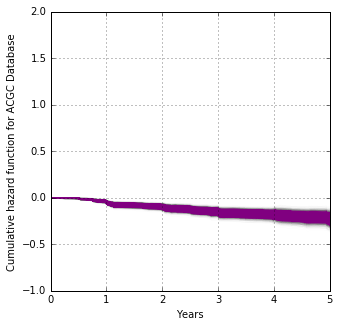
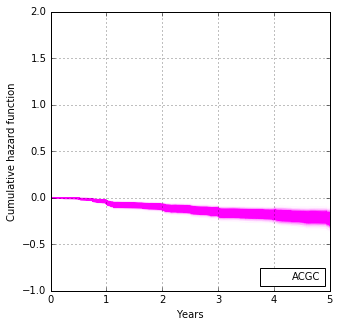
April 22-2016

diff --git a/README.md b/README.md
@@ -14,7 +14,8 @@ Background
 
 Data
 ----
-- Donor database from South Bay non-profit. 2338 donors spanning over 40 years.
+- Donor database from South Bay non-profit.
+- 2338 donors spanning over 40 years.
 - Each row contains >100 features.  Example of features: ZIP code, martial status, gender...
 
 
@@ -24,9 +25,9 @@ Approach
 --------
 - The Aalen Additive model, which is patient-survival model, was used to predict the lifetime. The model fits the data to a *hazard function* in turn is used to predict the lifetime.
 
-- The hazard function are composed of features (known as *hazards*) which can influence the lifetime of the patient, which is the donor in our use case.
+- The hazard function is composed of features (known as *hazards*) which can influence the lifetime of each donor in our use case.
 
-	λ(t) = b<sub>0</sub>(t) + b<sub>1</sub>(t)x<sub>1</sub> +. . . +b<sub>N</sub>(t)x<sub>T</sub>, where x<sub>n</sub> are the hazards and b<sub>n</sub> are the parameters.
+	λ(t) = b<sub>0</sub>(t) + b<sub>1</sub>(t)x<sub>1</sub> +. . . +b<sub>N</sub>(t)x<sub>T</sub>,  where b<sub>0</sub>(t) is the baseline hazard function and x<sub>n</sub> are the hazards and b<sub>n</sub> are the parameters.
 
 - To train the model, we only use the donors who have churned (defined as not donated in the last two years).  In the survival-model parlance, the donors who have not churned are "censored," so they are removed from the training.  This is done because we do not know the lifetimes of these donors yet.   After the model is trained, we will use it to predict the lifetimes of the "censored" donors.
 
@@ -37,24 +38,23 @@ Approach
 Data processing
 ---------------
 - Python pandas was used to impute and clean up data.
-- Data package [ "Lifelines" ](http://lifelines.readthedocs.org/en/latest/) which contains the Aalen additive model.  
+- Data package [ "Lifelines" ](http://lifelines.readthedocs.org/en/latest/) which contains the Aalen additive model was used to model and plot the data.
 
-- The more than 100 features were whittled down to 7 by *backward stepwise selection.*  They are the following.
-	1.	ACGC (whether a donor comes from the ACGC branch of the organization)
-	2.	Celebrity breakfast (A $100/plate breakfast event with a celebrity speaker)
-	3.	Golf tournament (A golf tournament held at a country club that cost $1000 to play)
+- The more than 100 features were whittled down to 7 by *backward stepwise selection.*  These 7 featuers are as follows.
+	1.	ACGC (whether a donor comes from the ACGC branch of the organization).  This is a another non-profit that was merged into the organization in 1995.
+	2.	Celebrity breakfast (An annual $100/plate breakfast event with a celebrity speaker)
+	3.	Golf tournament (An annual golf tournament held at a country club that cost $1000 to play)
 	4.	Male (True = male, False = female)
 	5.	Married (True = married or partnered, False = single, divorced, or widowed)
 	6. 	Personal connection (True =  a personal friend or acquaintance of an employee of the agency.)
 	7.  Predicted income (Using the zip code, we scrapped the US Census Bureau website for the average household income and use this as the feature.)
 
 - The Keplan-Meier function (or estimator) was used initially to provide quick inspection of the data.  It represents the percent of the donors who have "survived" after a certain time.  Typical it is plotted to illustrate a data set that is stratified against a certain feature, such "married" or not "married."  It allows us to spot initial trends of the data set.   Details of the Kaplan-Meier function can be found [here](https://en.wikipedia.org/wiki/Kaplan–Meier_estimator).
-
-- Some initial observations.  Note that the error (shaded area = one standard deviation) increases with time.  This reflects the decrease in the sample size as time progresses (donors churn), and is the reason why a simple regression model is not appropriate (See "why not linear or logistic regression?" above.)  Because of this, the rest of the study will focus on the donor survival during for first 5 years.
-	1. High cost events such as the Golf tournaments and the Celebrity breakfasts lead to very short lifetimes compared to the overall population.  However, the Celebrity breakfast donors tend to have a higher survival rate for the first 3 years.
-	2. Female donors have a longer lifetime than male do.
-	3. Unmarried donors tend to churn more than married donors during the first 20 years, but then the trend is reversed after 20 years.
-	4. Surprisingly, having a personal connection with the donor is not helpful in retaining the donor.
+  Some initial observations.  Note that the error (shaded area = one standard deviation) increases with time.  This reflects the decrease in the sample size as time progresses (donors churn), and is the reason why a simple regression model is not appropriate (See "why not linear or logistic regression?" above.)  Because of this, the rest of the study will focus on the donor survival during for first 5 years.
+	1. High cost events such as the Golf Tournaments and the Celebrity Breakfasts lead to very short lifetimes compared to the overall population.  However, the Celebrity-Breakfast donors tend to have a higher survival rate for the first 3 years.
+	2. Male donors have longer lifetimes than Female donors do.
+	3. Unmarried donors tend to churn more than married donors during the first 20 years, but the trend is reversed after 20 years.
+	4. Surprisingly, having a personal connection with the donor shortens the lifetime.
 	5. Not Surprisingly, donors with below average income (compared to other donors, not to the general population) tend to churn faster than donors with above average income.
 
 ![Overall Kaplan-Meier function](/images/KMF_overall.png>)
@@ -70,18 +70,16 @@ Bootstrapping
 -------------
 - Because of the relative small data set, a bootstrap approach was used to model the data.   Samples were drawn with replacement from the original data set 10 000 times to train 10 000 models.  These 10 000 models generated 10 000 hazard functions.  
 
-- The 10 000 trained bootstrapped models took over 12 hours to be trained.  To save time, they are stored in the list which is then pickled.  However, because of the size limit of github, I only loaded a shortened version of this pickled file with 100 bootstraps (AAF_list_100.p).  All results from this page are from the 10 000 bootstrapped models.
+- The 10 000 trained bootstrapped models took over 12 hours to be trained.  To save time, they are stored in the list which is then pickled.  However, because of the size limit of github, I only loaded a shortened version of a file with 100 bootstraps (AAF_list_100.p).  All results from this page are from the 10 000 bootstrapped models.
 
 Results
 =======
 1. Hazards
 ----------
-The plots below show the hazard functions generated by the bootstrapped models.  The variance of our model can be nicely visualized by the spread of lines.   
+The plots below show the hazard functions generated by the bootstrapped models.  The spread of the lines are caused by the variance of the results among the 10 000 models.   
 -  The baseline hazard function represents all the hazards not accounted for by the hazards.  That is, it is the hazard function if all the categorical features were false and all the numerical features were at their average values.  
-
 ![Hazard function baseline](images/cum_haz_baseline0-5.png)
-
-- The hazard function for each hazard is plotted below. Each function shows at what time in a donor's lifetime hazards will emerge.  Each figure is the composite of the result from 10 000 bootstrapped models.  Thus the spread represents the standard deviation of the models. Note that even though these functions are called "hazards," when they are negative, they are actually "benefits" that prolong the lifetime of the donor.  For example, a higher than average income would produce a negative hazard over much of the lifetime of a donor.
+- The hazard function for each hazard is plotted below, each showing at what time in a donor's lifetime the specific hazard will emerge. Note that even though these functions are called "hazards," when they are negative, they are actually "benefits" that prolong the lifetime of the donor.  For example, a higher than average income would produce a negative hazard over much of the lifetime of a donor.
 
 ![Hazard function for ACGC](/images/cum_haz_ACGC0-5.png>)
 ![Hazard function for Celebrity breakfast](images/cum_haz_COS0-5.png)
@@ -95,7 +93,7 @@ The plots below show the hazard functions generated by the bootstrapped models. 
 2.	Predicting Hazards for individual donors
 --------------------------------------------
 
-- For any censored (not churned) donor, we can substitute her/his features into the model to predict the lifetime.  More importantly, we can customize a hazard function for each donor and predict at what times in her or his lifetime hazards will emerge (represented by steep slopes in the hazard function).  This is illustrated below by the plots of the hazard function 4 random donors, represented by green, blue, red, and purple curves.  Each color is the composite of  the 10000 bootstrapped models.  Thus the uncertainty or the spread of the function is nicely shown by the spread. As can be seen, each donor has a different hazard profile.  For example, the green donor was recruited from a golf tournament which lead to a high hazard at 2nd year of his lifetime.  
+- In addition to predicting a donor's lifetime, the hazard function allows us to customize a hazard function that  predicts at what times in her or his lifetime hazards will emerge (represented by steep slopes in the hazard function).  This is illustrated below by the plots of the hazard function 4 random donors, represented by green, blue, red, and purple curves.  Each color is the composite of  the 10  000 bootstrapped models.  The spread of each function is caused by the difference among the 10 000 bootstrapped models and represents the variance between them. As can be seen, each donor has a different hazard profile.  For example, the green donor was recruited from a golf tournament which lead to a high hazard at 2nd year of his lifetime.  
 
 ![CumulativeHazfor15donors](/images/donor_cum_hazard0-5-ii.png)
 
